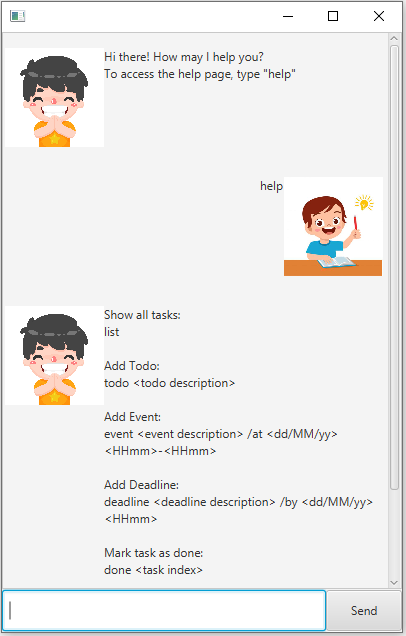
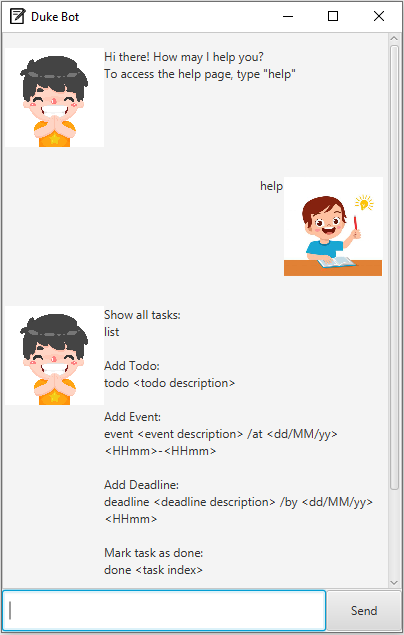
Modified Ui

diff --git a/src/main/java/duke/Main.java b/src/main/java/duke/Main.java
@@ -6,6 +6,7 @@ import duke.gui.MainWindow;
 import javafx.application.Application;
 import javafx.fxml.FXMLLoader;
 import javafx.scene.Scene;
+import javafx.scene.image.Image;
 import javafx.scene.layout.AnchorPane;
 import javafx.stage.Stage;
 
@@ -23,6 +24,8 @@ public class Main extends Application {
             AnchorPane ap = fxmlLoader.load();
             Scene scene = new Scene(ap);
             stage.setScene(scene);
+            stage.setTitle("Duke Bot");
+            stage.getIcons().add(new Image("/images/Icon.png"));
             fxmlLoader.<MainWindow>getController().setDuke(duke);
             stage.show();
         } catch (IOException e) {
